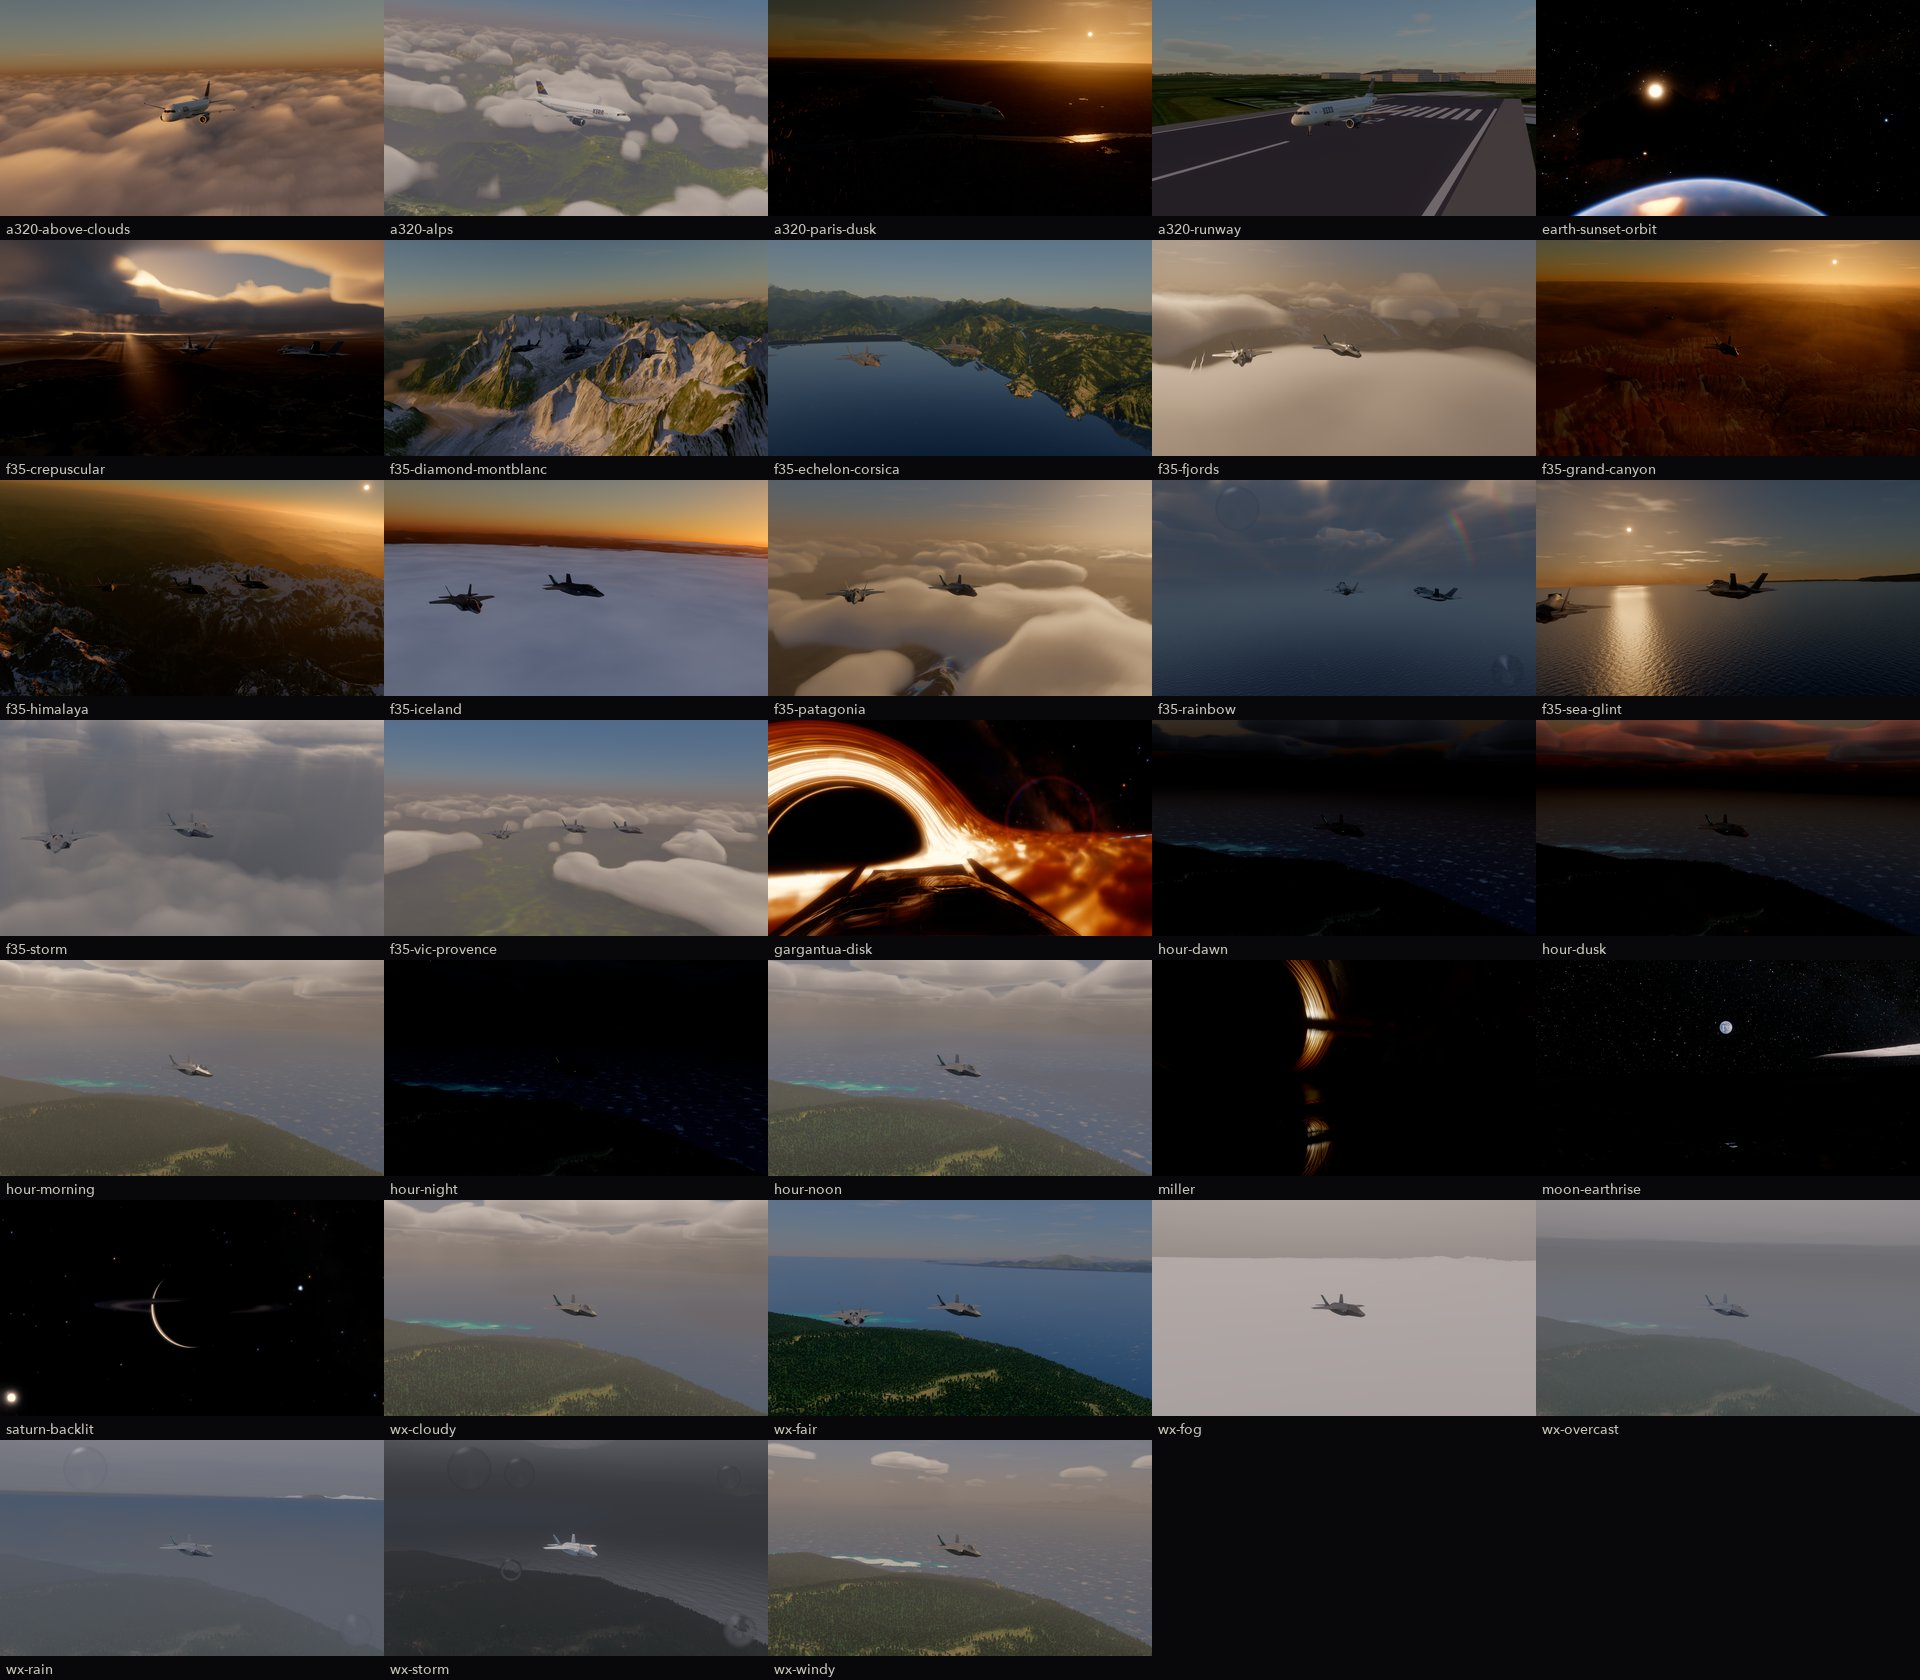
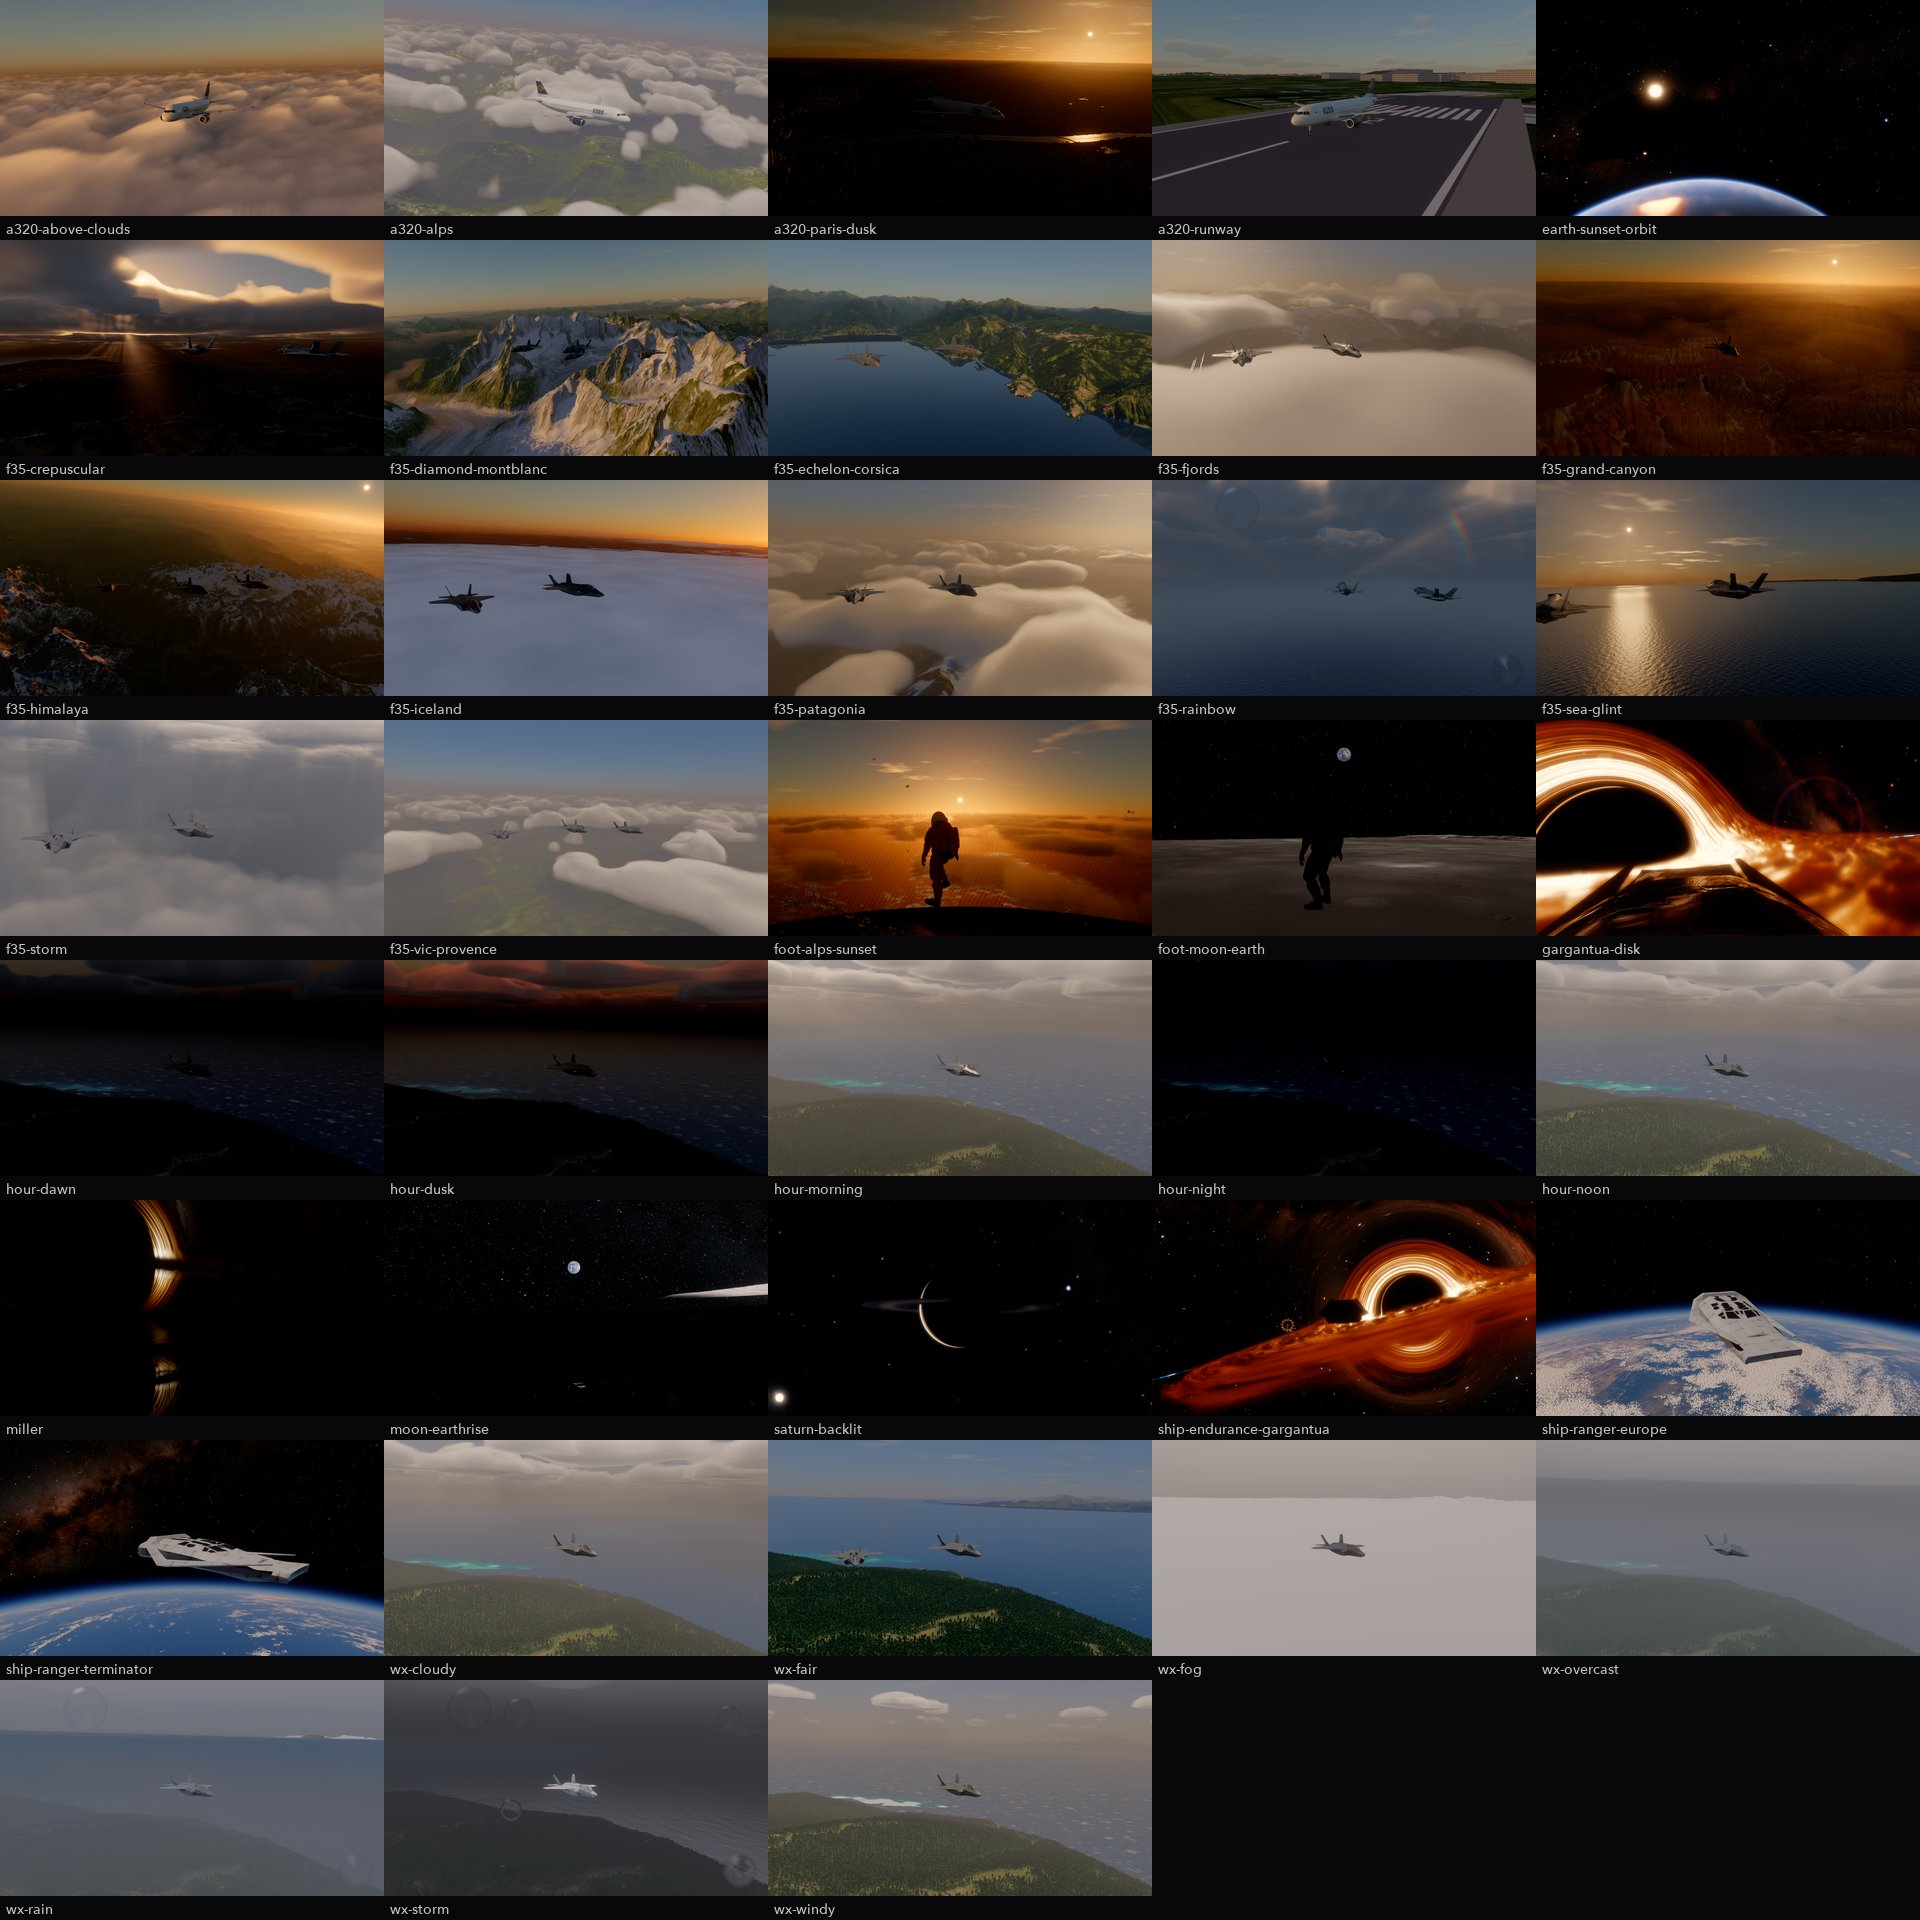
Titre : nouvelles images À pied (crête au couchant au-dessus des nuages) et En vaisseau (le Ranger, la Voie lactée, le limbe)
showcase-shots.ts : scènes à pied (Lune et Terre, crête de Chamonix au couchant) et en vaisseau (Ranger en orbite,
Endurance devant Gargantua) ; build-showcase.py : les quatre cartes du titre de la vitrine, trois affiches de plus.

diff --git a/scripts/showcase-shots.ts b/scripts/showcase-shots.ts
@@ -237,6 +237,53 @@ const SHOTS: Record<string, Shot> = {
     setup: f35({ lat: 69.65, lon: 18.95, alt: 1500, hdg: 0, date: "2026-12-15T21:00:00Z", wingmen: 1 }),
     camera: around(180, 18, 45, 60),
   },
+  // ---- On foot's and By ship's cards: the astronaut on a world, a craft in orbit
+  ...Object.fromEntries(
+    (
+      [
+        // (the Moon's eastern limb 1.8 days after a new Moon: the Earth nearly full and low, looked at — scripts/title-art.ts's)
+        ["foot-moon-earth", "2026-08-14T12:00:00Z", "moon", 0.4, 87.5, "earth", 0.04, 7, 30],
+        // (a ridge over Chamonix at sunset, looking at the Sun over the range)
+        ["foot-alps-sunset", "2026-07-10T19:05:00Z", "earth", 45.879, 6.887, "sun", 0.06, 6, 40],
+        // (Mars, Gale crater: the blue sunset)
+        ["foot-mars-sunset", "2026-07-10T12:00:00Z", "mars", -4.6, 137.4, "sun", 0.05, 6, 40],
+      ] as const
+    ).map(([n, date, body, lat, lon, toward, pitch, dist, fov], i) => [
+      n,
+      {
+        group: i % 2 ? "b" : "a",
+        setup: `__bh.game.setDate("${date}"); __bh.settings.vessel = "lander"; __bh.settings.wingmen = 0; __bh.game.set("weather", "fair");
+          for (let i = 0; i < 5; i++) __bh.step(1 / 30);
+          __bh.game.walk("${body}", ${lat}, ${lon}); for (let i = 0; i < 60; i++) __bh.step(1 / 30);
+          const ch = __bh.camera.character;
+          const aim = () => { const e = ch.skyAzEl(__bh.ourState("${toward}", __bh.camera.nowTime()).pos); const p = ch.place();
+            if (e) ch.yaw += ((((e.az - p.viewDeg) % 360) + 540) % 360 - 180) * Math.PI / 180; return e; };
+          aim(); ch.move(1, 0, 10, true); for (let i = 0; i < 300; i++) __bh.step(1 / 30); ch.move(0, 0, 0);
+          for (let i = 0; i < 30; i++) __bh.step(1 / 30); aim();
+          ch.pitch = ${pitch}; ch.distance = ${dist}; __bh.settings.fov = ${fov}; for (let i = 0; i < 30; i++) __bh.step(1 / 30);`,
+      } satisfies Shot,
+    ]),
+  ),
+  "ship-ranger-terminator": {
+    group: "a",
+    setup: `__bh.game.setDate("2026-03-20T17:30:00Z"); __bh.settings.vessel = "ranger"; __bh.settings.wingmen = 0;
+      for (let i = 0; i < 5; i++) __bh.step(1 / 30); __bh.game.orbit("earth", { altKm: 420, inc: 51.6 }); for (let i = 0; i < 10; i++) __bh.step(1 / 30);`,
+    camera: around(230, 10, 22, 48),
+  },
+  "ship-ranger-europe": {
+    group: "b",
+    setup: `__bh.game.setDate("2026-07-10T12:00:00Z"); __bh.settings.vessel = "ranger"; __bh.settings.wingmen = 0;
+      for (let i = 0; i < 5; i++) __bh.step(1 / 30); __bh.game.orbitOver("earth", 44, 8, { altKm: 400 }); for (let i = 0; i < 10; i++) __bh.step(1 / 30);`,
+    camera: around(200, 18, 24, 50),
+  },
+  "ship-lander-moon": {
+    group: "a",
+    setup: `__bh.game.setDate("2026-08-14T12:00:00Z"); __bh.settings.vessel = "lander"; __bh.settings.wingmen = 0;
+      for (let i = 0; i < 5; i++) __bh.step(1 / 30); __bh.game.orbit("moon", { altKm: 40 }); for (let i = 0; i < 10; i++) __bh.step(1 / 30);`,
+    camera: around(210, 12, 40, 50),
+  },
+  "ship-endurance-gargantua": { group: "b", own: true, setup: `__bh.preset("Interstellar: the Endurance before Gargantua");` },
+  "ship-ranger-endurance": { group: "a", own: true, setup: `__bh.preset("Gargantua: the Ranger by the Endurance");` },
   // ---- space: the Moon, the stars, Gargantua
   ...Object.fromEntries(
     (

diff --git a/scripts/build-showcase.py b/scripts/build-showcase.py
@@ -36,9 +36,10 @@ def webp(im, path, size, aspect, cx=0.5, cy=0.5, q=80):
 
 
 # ---- the ways to play: (shot, subject's centre)
-# (On foot's and By ship's kept: the astronaut on the Moon's limb, the Ranger in low orbit — scripts/title-art.ts)
 MODES = {
     "plane": ("f35-diamond-montblanc", 0.42, 0.45),
+    "foot": ("foot-alps-sunset", 0.48, 0.5),
+    "ship": ("ship-ranger-terminator", 0.6, 0.55),
     "free": ("gargantua-disk", 0.45, 0.5),
 }
 for mode, (name, cx, cy) in MODES.items():
@@ -93,6 +94,9 @@ POSTERS = [
     ("f35-rainbow", "KERR", "Une météo vivante", "A living weather"),
     ("f35-crepuscular", "KERR", "Chaque lumière, chaque nuage", "Every light, every cloud"),
     ("gargantua-disk", "KERR", "Au bord de Gargantua", "At the edge of Gargantua"),
+    ("foot-alps-sunset", "KERR", "Marchez sur les mondes", "Walk the worlds"),
+    ("ship-ranger-terminator", "KERR", "En orbite, la Terre sous vous", "In orbit, the Earth below"),
+    ("ship-endurance-gargantua", "KERR", "Jusqu'à Gargantua", "All the way to Gargantua"),
 ]
 for name, title, fr, en in POSTERS:
     im = shot(name)

diff --git a/docs/MENUS.md b/docs/MENUS.md
@@ -72,7 +72,7 @@ warm 865 against 933 — medians of 6 starts on kerr-mini). The title answers 17
 
 Every picture of the menus is made by the game itself:
 
-- `scripts/title-art.ts` + `scripts/build-title-art.py` — On foot's and By ship's cards, the hangar's turntables (E3).
+- `scripts/title-art.ts` + `scripts/build-title-art.py` — the hangar's turntables (E3).
 - `scripts/showcase-shots.ts` + `scripts/build-showcase.py` (2026-10-29) — the showcase: some forty scenes (F-35s in
   formation over the Mont Blanc, Corsica, Provence, Gibraltar; the A320 above the clouds, at Paris, on a runway; the
   weathers and the hours of a day off Gibraltar's Rock; crepuscular rays, a rainbow, a storm; the fjords, the Himalaya,
